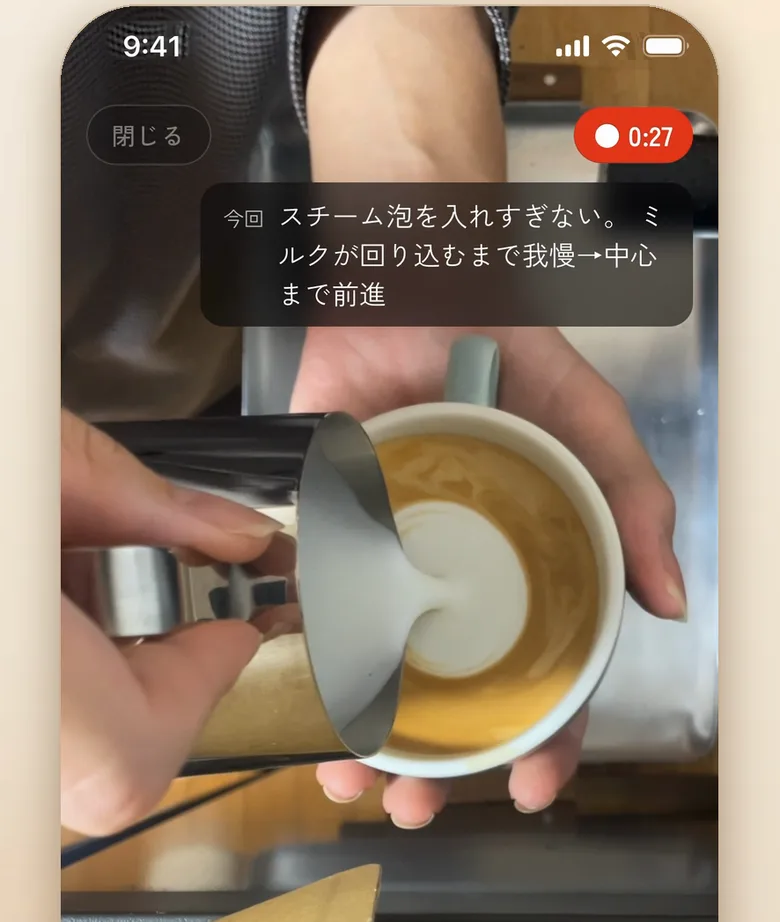
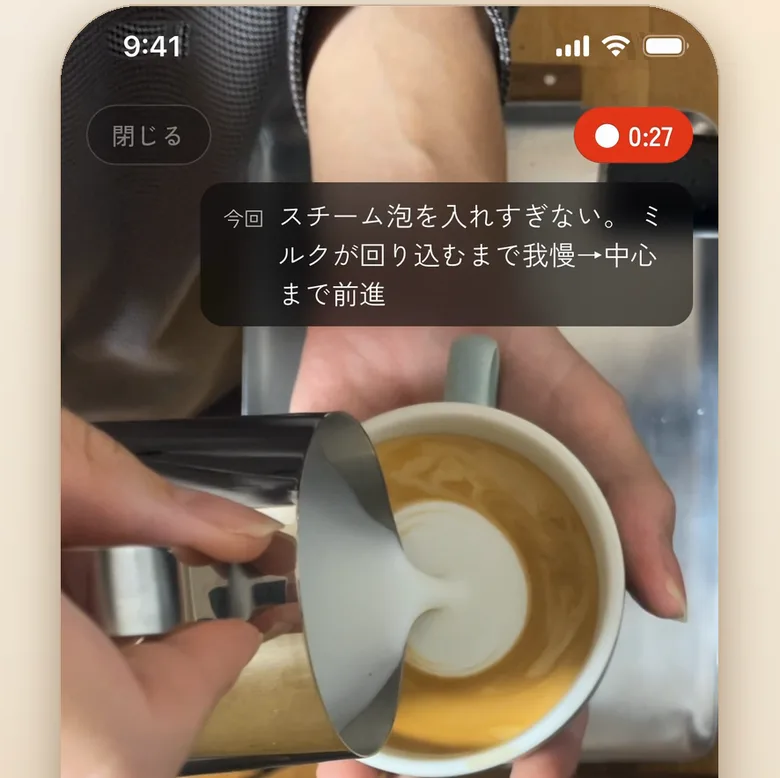
ヒーローは「今日」の画像と記録のしかた動画にし、「上達が」の章は元に戻し、「動画で」の章に記録画面を並べる

diff --git a/worker/site/index.html b/worker/site/index.html
@@ -168,14 +168,17 @@
       .hero .scroller {
         margin-top: 20px;
       }
-      /* ヒーローの動画は、枠なしで、高さをそろえる（幅は動画の縦横比で決まる） */
+      /* ヒーローの画像と動画は、枠なしで、高さをそろえる（幅は縦横比で決まる） */
       .demo-item {
         margin: 0;
       }
+      .demo-item img,
       .demo-item video {
         display: block;
         height: 520px;
         width: auto;
+      }
+      .demo-item video {
         border-radius: 14px;
       }
 
@@ -332,13 +335,13 @@
           <a class="store" href="https://apps.apple.com/jp/app/%E3%83%A9%E3%83%86%E5%B8%B3-%E3%83%A9%E3%83%86%E3%82%A2%E3%83%BC%E3%83%88%E3%81%AE%E7%B7%B4%E7%BF%92%E8%A8%98%E9%8C%B2/id6823908010"><img src="/img/app-store-badge-ja.svg" height="44" alt="App Store でダウンロード" /></a>
           <p class="web-link">Androidの方は<a href="https://makim0939.github.io/michishirube/">Web版</a>をお使いいただけます。</p>
 
-          <!-- 記録のしかた（動画）と、ホームの動画。高さをそろえて、横に動かして見る -->
+          <!-- 「今日」の画面と、記録のしかた（動画）。高さをそろえて、横に動かして見る -->
           <div class="scroller" role="region" aria-label="ラテ帳の画面" tabindex="0">
             <figure class="demo-item">
-              <video src="/img/howto.mp4" poster="/img/howto-poster.webp" width="540" height="1170" muted playsinline loop autoplay preload="metadata" aria-label="記録のしかた。ホームから撮影、注ぐところを動画で、できあがりを写真で撮り、次の一手をメモして保存する"></video>
+              <img src="/img/today.webp" width="780" height="1272" alt="ラテ帳の「今日」の画面。最新の1杯の写真と、練習中の型、次の一手、「記録する」ボタン" />
             </figure>
             <figure class="demo-item">
-              <video src="/img/home.mp4" poster="/img/home-poster.webp" width="540" height="882" muted playsinline loop autoplay preload="metadata" aria-label="ホームの画面。撮ってきた1杯を、横にめくって見返す"></video>
+              <video src="/img/howto.mp4" poster="/img/howto-poster.webp" width="540" height="1170" muted playsinline loop autoplay preload="metadata" aria-label="記録のしかた。ホームから撮影、注ぐところを動画で、できあがりを写真で撮り、次の一手をメモして保存する"></video>
             </figure>
           </div>
         </div>
@@ -348,9 +351,14 @@
           <p class="section-text">ラテアートって一瞬の出来事で、うまくできなかった原因を見つけるのがとても難しいですよね。</p>
           <p class="section-text">なので、動画を撮ってあとから見返せるようにしました。野球で素振りのフォームを撮るようなものですね。</p>
           <p class="section-text">気づいたことは「次の一手」としてメモすると、次に動画を撮るときに表示されます。</p>
-          <figure class="shot">
-            <img src="/img/review.webp" width="780" height="922" alt="撮影の画面。注ぐところを動画で撮るあいだ、前回の「次の一手」が画面に出る" loading="lazy" decoding="async" />
-          </figure>
+          <div class="scroller" role="region" aria-label="ラテ帳の画面" tabindex="0">
+            <figure class="shot">
+              <img src="/img/review.webp" width="780" height="778" alt="撮影の画面。注ぐところを動画で撮るあいだ、前回の「次の一手」が画面に出る" loading="lazy" decoding="async" />
+            </figure>
+            <figure class="shot">
+              <img src="/img/record.webp" width="780" height="778" alt="記録の画面。成功・惜しい・失敗の選択と、次の一手の入力欄。前回の次の一手が上に出る" loading="lazy" decoding="async" />
+            </figure>
+          </div>
         </section>
 
         <section class="section">
@@ -373,7 +381,7 @@
               <img src="/img/compare.webp" width="780" height="1272" alt="型の画面。直近の結果の点と、最新と最初のラテアートの写真が並ぶ" loading="lazy" decoding="async" />
             </figure>
             <figure class="shot">
-              <img src="/img/today.webp" width="780" height="1272" alt="ラテ帳の「今日」の画面。最新の1杯の写真と、練習中の型、次の一手、「記録する」ボタン" loading="lazy" decoding="async" />
+              <video src="/img/home.mp4" poster="/img/home-poster.webp" width="540" height="882" muted playsinline loop autoplay preload="metadata" aria-label="ホームの画面。撮ってきた1杯を、横にめくって見返す"></video>
             </figure>
           </div>
         </section>
